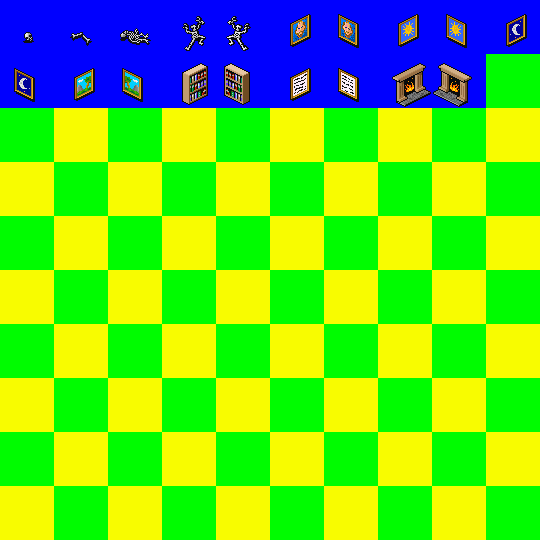
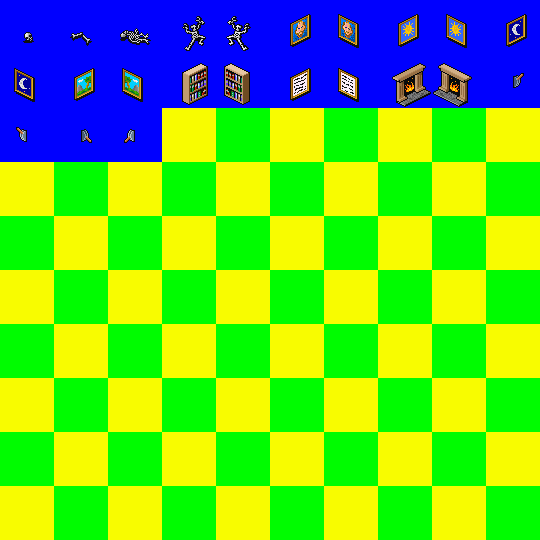
Divided Islands map generator with locked door, lever to open

Changed region(s): [[0.0, 0.1778, 0.3259, 0.3259], [0.8889, 0.0889, 1.0, 0.2074]]

diff --git a/mapgen.py b/mapgen.py
@@ -151,18 +151,29 @@ class Room( object ):
         # Step Six: Move items and monsters onto the map.
         # Find a list of good spots for stuff that goes in the open.
         good_spots = list()
-        for x in range( self.area.x, self.area.x + self.area.width ):
-            for y in range( self.area.y, self.area.y + self.area.height ):
+        for x in range( self.area.x+1, self.area.x + self.area.width-1 ):
+            for y in range( self.area.y+1, self.area.y + self.area.height-1 ):
                 if not gb.map[x][y].blocks_walking():
                     good_spots.append( (x,y) )
 
         # Find a list of good walls for stuff that must be mounted on a wall.
-        # If there are no good walls, add some.
-
+        good_walls = list()
+        for x in range( self.area.x + 1, self.area.x + self.area.width - 1 ):
+            if gb.map[x][self.area.y].wall == maps.BASIC_WALL and gb.map[x-1][self.area.y].wall and gb.map[x+1][self.area.y].wall and not gb.map[x][self.area.y+1].blocks_walking():
+                good_walls.append((x,self.area.y ))
+        for y in range( self.area.y + 1, self.area.y + self.area.height - 1 ):
+            if gb.map[self.area.x][y].wall == maps.BASIC_WALL and gb.map[self.area.x][y-1].wall and gb.map[self.area.x][y+1].wall and not gb.map[self.area.x+1][y].blocks_walking():
+                good_walls.append((self.area.x,y ))
 
         for i in self.inventory:
-            if hasattr( i, "ATTACH_TO_WALL" ) and i.ATTACH_TO_WALL:
-
+            if hasattr( i, "ATTACH_TO_WALL" ) and i.ATTACH_TO_WALL and good_walls:
+                p = random.choice( good_walls )
+                good_walls.remove( p )
+                if hasattr( i, "place" ):
+                    i.place( gb, p )
+                else:
+                    i.pos = p
+                    gb.contents.append( i )
             else:
                 p = random.choice( good_spots )
                 good_spots.remove( p )
@@ -193,6 +204,14 @@ class Room( object ):
             if gb.map[x][y].blocks_walking():
                 gb.map[x][y].floor = maps.HIGROUND
 
+    def probably_blocks_movement( self, gb, x, y ):
+        if not gb.on_the_map(x,y):
+            return True
+        elif gb.map[x][y].wall is True:
+            return True
+        else:
+            return gb.map[x][y].blocks_walking()
+
     def draw_direct_connection( self, gb, x1,y1,x2,y2 ):
         path = animobs.get_line( x1,y1,x2,y2 )
         for p in path:
@@ -209,15 +228,47 @@ class FuzzyRoom( Room ):
             for y in range( self.area.y, self.area.y + self.area.height ):
                 self.draw_fuzzy_ground( gb, x, y )
 
+class SharpRoom( Room ):
+    """A room with hard walls, with BASIC_FLOOR floors."""
+    def deal_with_empties( self, gb, empties ):
+        p2 = random.choice( empties )
+        empties.remove( p2 )
+        gb.map[p2[0]][p2[1]].wall = maps.OPEN_DOOR
+        for pp in empties:
+            gb.map[pp[0]][pp[1]].wall = maps.BASIC_WALL
+        del empties[:]
+    def probably_an_entrance( self, gb, p, vec ):
+        return not self.probably_blocks_movement(gb,*p) and not self.probably_blocks_movement(gb,p[0]+vec[0],p[1]+vec[1])
+    def draw_wall( self, gb, points, vec ):
+        empties = list()
+        for p in points:
+            if self.probably_an_entrance(gb,p,vec):
+                empties.append( p )
+            else:
+                gb.map[p[0]][p[1]].wall = maps.BASIC_WALL
+                if empties:
+                    self.deal_with_empties(gb, empties )
+        if empties:
+            self.deal_with_empties(gb, empties )
+
+    def render( self, gb ):
+        # Fill the floor with BASIC_FLOOR, and clear room interior
+        self.fill( gb, self.area, floor=maps.BASIC_FLOOR )
+        self.fill( gb, self.area.inflate(-2,-2), wall=None )
+        # Set the four corners to basic walls
+        gb.map[self.area.x][self.area.y].wall = maps.BASIC_WALL
+        gb.map[self.area.x+self.area.width-1][self.area.y].wall = maps.BASIC_WALL
+        gb.map[self.area.x][self.area.y+self.area.height-1].wall = maps.BASIC_WALL
+        gb.map[self.area.x+self.area.width-1][self.area.y+self.area.height-1].wall = maps.BASIC_WALL
+
+        # Draw each wall. Harder than it sounds.
+        self.draw_wall( gb, animobs.get_line( self.area.x+1,self.area.y,self.area.x+self.area.width-2,self.area.y ), (0,-1) )
+        self.draw_wall( gb, animobs.get_line( self.area.x,self.area.y+1,self.area.x,self.area.y+self.area.height-2 ), (-1,0) )
+        self.draw_wall( gb, animobs.get_line( self.area.x+1,self.area.y+self.area.height-1,self.area.x+self.area.width-2,self.area.y+self.area.height-1 ), (0,1) )
+        self.draw_wall( gb, animobs.get_line( self.area.x+self.area.width-1,self.area.y+1,self.area.x+self.area.width-1,self.area.y+self.area.height-2 ), (1,0) )
+
 class BottleneckRoom( Room ):
     """A room that blocks passage, aside from one door."""
-    def probably_blocks_movement( self, gb, x, y ):
-        if not gb.on_the_map(x,y):
-            return True
-        elif gb.map[x][y].wall:
-            return True
-        else:
-            return gb.map[x][y].blocks_walking()
     def render( self, gb ):
         myrect = self.area.inflate(-2,-2)
         for x in range( myrect.x, myrect.x + myrect.width ):
@@ -285,16 +336,22 @@ class RandomScene( Room ):
                     gb.map[x][y].wall = True
 
 
-class DividedIslands( RandomScene ):
+class DividedIslandScene( RandomScene ):
     """The rooms are divided into two groups by a single bridge."""
-
+    # Special elements:
+    #  bridge: The room in the middle of the river.
+    #  before_bridge: The room before the bridge.
+    #  after_bridge: The room after the bridge.
+    # Tags of note:
+    #  ENTRANCE: Rooms with this tag placed before the bridge
+    #  GOAL: Rooms with this tag placed after the bridge
     def prepare( self, gb ):
         # Step one- we're going to use a plasma map to set water/lo/hi ground.
         # Fill all non-water tiles with True walls for now.
         myplasma = Plasma()
         for x in range( self.width ):
             for y in range( self.height ):
-                if myplasma.map[x][y] < 0.3:
+                if myplasma.map[x][y] < 0.25:
                     gb.map[x][y].floor = maps.WATER
                 elif myplasma.map[x][y] < 0.5:
                     gb.map[x][y].floor = maps.LOGROUND
@@ -307,21 +364,27 @@ class DividedIslands( RandomScene ):
         # Divide the map into two segments.
         if random.randint(1,2) == 1:
             horizontal_river = True
+            subzone_height = ( self.height - 8 ) // 2
             # Horizontal river
             z1 = Room()
-            z1.area = pygame.Rect( 0,0,self.width,(self.height-4)//2 )
+            z1.area = pygame.Rect( 0,0,self.width,subzone_height )
             z2 = Room()
-            z2.area = pygame.Rect( 0,(self.height-4)//2 + 5,self.width,(self.height-4)//2 )
-            river = pygame.Rect( 0,(self.height-4)//2,self.width,4 )
+            z2.area = pygame.Rect( 0,0,self.width,subzone_height )
+            z2.area.bottomleft = self.area.bottomleft
+            river = pygame.Rect( 0,0,self.width,6 )
         else:
             horizontal_river = False
+            subzone_width = ( self.width - 8 ) // 2
             # Vertical river
             z1 = Room()
-            z1.area = pygame.Rect( 0,0,(self.width-4)//2,self.height )
+            z1.area = pygame.Rect( 0,0,subzone_width,self.height )
             z2 = Room()
-            z2.area = pygame.Rect( (self.width-4)//2+5,0,(self.width-4)//2,self.height )
-            river = pygame.Rect( (self.width-4)//2,0,4,self.height )
+            z2.area = pygame.Rect( 0,0,subzone_width,self.height )
+            z2.area.topright = self.area.topright
+            river = pygame.Rect( 0,0,6,self.height )
+        river.center = self.area.center
         self.fill( gb, river, floor=maps.WATER, wall=None )
+        self.fill( gb, river.inflate(2,2), wall=None )
 
         # Locate the bridge, before_bridge, and after_bridge rooms, creating them
         # if none currently exist.
@@ -333,7 +396,6 @@ class DividedIslands( RandomScene ):
         before_bridge = self.special_c.get( "before_bridge", None )
         if not before_bridge:
             before_bridge = FuzzyRoom()
-            before_bridge.inventory.append( waypoints.Bookshelf() )
             self.special_c["before_bridge"] = before_bridge
             z1.contents.append( before_bridge )
         after_bridge = self.special_c.get( "after_bridge", None )

diff --git a/campaign.py b/campaign.py
@@ -297,7 +297,7 @@ if __name__=='__main__':
 
     waypoints.Bookshelf( myscene, (18,12) )
 
-    otherscene = maps.Scene( 102, 102, sprites={ maps.SPRITE_GROUND: "terrain_ground_cthonic.png", maps.SPRITE_WALL: "terrain_wall_darkstone.png",maps.SPRITE_FLOOR: "terrain_floor_gravel.png"} )
+    otherscene = maps.Scene( 102, 102, sprites={ maps.SPRITE_GROUND: "terrain_ground_cthonic.png", maps.SPRITE_WALL: "terrain_wall_rocks.png",maps.SPRITE_FLOOR: "terrain_floor_gravel.png"} )
 
     stairs_1 = waypoints.SpiralStairsDown( myscene, (19,25) )
     stairs_2 = waypoints.SpiralStairsUp()
@@ -307,18 +307,18 @@ if __name__=='__main__':
     stairs_2.otherside = stairs_1
 
 
-    osgen = mapgen.DividedIslands( otherscene )
+    osgen = mapgen.DividedIslandScene( otherscene )
     room1 = mapgen.FuzzyRoom( tags=(context.ENTRANCE,) )
-    room1.name = "Room 1"
     room1.inventory.append( stairs_2 )
-    room2 = mapgen.FuzzyRoom( tags=(context.ENTRANCE,) )
+    room2 = mapgen.SharpRoom( tags=(context.ENTRANCE,) )
     room3 = mapgen.FuzzyRoom( tags=(context.GOAL,) )
-    room2.name = "Room 2"
-    room3.name = "Room 3"
     room4 = mapgen.BottleneckRoom()
     osgen.special_c["bridge"] = room4
     pdoor = waypoints.PuzzleDoor()
+    pswitch = waypoints.PuzzleSwitch()
+    pswitch.CALL = pdoor.activate
     room4.special_c["door"] = pdoor
+    room2.inventory.append( pswitch )
 
     osgen.contents += (room1,room2,room3,room4)
 

diff --git a/waypoints.py b/waypoints.py
@@ -69,6 +69,34 @@ class PuzzleDoor( Waypoint ):
         explo.alert( "This door is impassable." )
     def activate( self, explo ):
         self.scene.map[self.pos[0]][self.pos[1]].wall = maps.OPEN_DOOR
+        if explo.scene is self.scene:
+            explo.alert( "You hear a rumbling noise in the distance..." )
+        else:
+            explo.alert( "You get the feeling that new possibilities have been opened up." )
+
+class PuzzleSwitch( Waypoint ):
+    TILE = maps.Tile( None, None, maps.SWITCH_UP )
+    ATTACH_TO_WALL = True
+    CALL = None
+    RECALL = None
+    UP = True
+    def bump( self, explo ):
+        if self.UP:
+            if self.CALL:
+                self.CALL( explo )
+                self.scene.map[self.pos[0]][self.pos[1]].decor = maps.SWITCH_DOWN
+                self.UP = False
+            else:
+                explo.alert( "This lever is stuck." )
+        else:
+            if self.RECALL:
+                self.RECALL( explo )
+                self.scene.map[self.pos[0]][self.pos[1]].decor = maps.SWITCH_UP
+                self.UP = True
+            else:
+                explo.alert( "This lever is stuck." )
+
+
 
 
 

diff --git a/exploration.py b/exploration.py
@@ -330,7 +330,7 @@ class Explorer( object ):
 
         while True:
             ev = pygame.event.wait()
-            if ( ev.type == pygame.MOUSEBUTTONDOWN ) or ( ev.type == pygame.QUIT ) or (ev.type == pygame.KEYDOWN):
+            if ( ev.type == pygame.MOUSEBUTTONUP) or ( ev.type == pygame.QUIT ) or (ev.type == pygame.KEYDOWN):
                 break
             elif ev.type == pygwrap.TIMEREVENT:
                 self.view( self.screen )

diff --git a/maps.py b/maps.py
@@ -189,6 +189,8 @@ SKULL = SingTerrain( "SKULL", spritesheet = SPRITE_DECOR, frame = 0 )
 BONE = SingTerrain( "BONE", spritesheet = SPRITE_DECOR, frame = 1 )
 SKELETON = SingTerrain( "SKELETON", spritesheet = SPRITE_DECOR, frame = 2 )
 HANGING_SKELETON = OnTheWallTerrain( "HANGING_SKELETON", frame = 3 )
+SWITCH_UP = OnTheWallTerrain( "SWITCH_UP", frame = 19 )
+SWITCH_DOWN = OnTheWallTerrain( "SWITCH_DOWN", frame = 21 )
 
 
 
